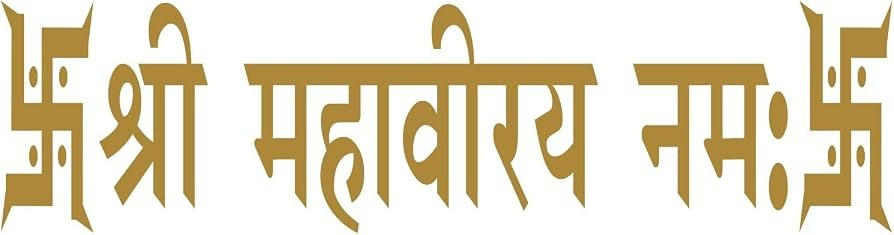
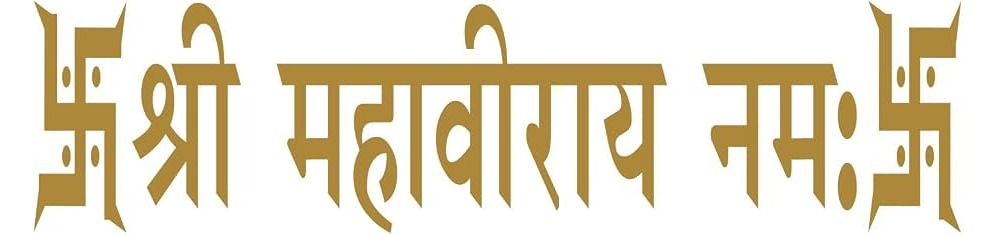
Update Lakshya & Archie name order, remove year tags, clean itinerary notes, update Varmala time, add 4th photo, and update header invocation image

diff --git a/src/config/invitation.ts b/src/config/invitation.ts
@@ -1,5 +1,5 @@
 /**
- * Single source of truth for Archie Jain & Lakshya Jain's wedding invitation.
+ * Single source of truth for Lakshya Jain & Archie Jain's wedding invitation.
  */
 
 export interface EventItem {
@@ -19,17 +19,18 @@ export interface DaySchedule {
 
 export const invitation = {
   couple: {
-    bride: "Archie Jain",
-    brideShort: "Archie",
-    brideParents: "D/o Smt. Sunita Jain & Shri Umesh Jain",
     groom: "Lakshya Jain",
     groomShort: "Lakshya",
     groomParents: "S/o Smt. Reena Jain & Shri Sandeep Jain",
-    hashtag: "#ArchieWedsLakshya",
+    bride: "Archie Jain",
+    brideShort: "Archie",
+    brideParents: "D/o Smt. Sunita Jain & Shri Umesh Jain",
+    hashtag: "#LakshyaWedsArchie",
   },
   familyElders: {
     title: "Invited With Love By",
     names: "Shri Ramesh Chandra Jain & Shreemati Saroj Jain",
+    parents: "Shri Sandeep Jain & Smt. Reena Jain",
   },
   invite: {
     headerInvocation: "॥ श्री महावीराय नमः ॥",
@@ -37,13 +38,13 @@ export const invitation = {
     line: "cordially invite you to celebrate the joyous wedding of their children",
   },
   event: {
-    title: "The Wedding Celebrations of Archie & Lakshya",
+    title: "The Wedding Celebrations of Lakshya & Archie",
     /** ISO with timezone offset — India Standard Time */
     startsAt: "2026-11-14T08:00:00+05:30",
     endsAt: "2026-11-15T22:00:00+05:30",
     dateLabel: "14 . 11 . 2026 — 15 . 11 . 2026",
-    dayLabel: "Saturday & Sunday",
-    timeLabel: "Celebrations begin 8:00 AM",
+    dayLabel: "",
+    timeLabel: "",
     dressCode: "Festive Indian Attire",
     note: "Join us in showering blessings upon the couple",
   },
@@ -61,19 +62,16 @@ export const invitation = {
         {
           time: "10:00 AM",
           title: "Myra",
-          note: "Followed with Breakfast",
         },
         {
           time: "12:00 PM",
           title: "Haldi",
           dressCode: "Yellow Attire",
-          note: "Followed with Dinner",
         },
         {
           time: "05:00 PM",
           title: "Mahila Sangeet",
           entryTime: "Bride & Groom Grand Entry at 7:00 PM",
-          note: "Followed with Dinner",
         },
       ],
     },
@@ -85,23 +83,19 @@ export const invitation = {
         {
           time: "10:00 AM",
           title: "Baarat",
-          note: "Breakfast served before Baarat arrival",
         },
         {
-          time: "12:00 PM",
+          time: "11:30 AM",
           title: "Varmala",
-          note: "Followed with Lunch",
         },
         {
           time: "01:30 PM",
           title: "Phere",
-          note: "Followed with High Tea",
         },
         {
           time: "05:00 PM",
           title: "Reception",
           entryTime: "Bride & Groom Grand Entry at 6:30 PM",
-          note: "Followed with Dinner",
         },
       ],
     },
@@ -109,26 +103,26 @@ export const invitation = {
   venue: {
     name: "Wedding Celebrations Venue",
     address: "Tap below to view full venue directions on Google Maps",
-    mapsQuery: "Archie and Lakshya Wedding Venue",
+    mapsQuery: "Lakshya and Archie Wedding Venue",
     url: "https://share.google/r5kyQlp0lJqvumKx6",
     lat: 26.9124,
     lng: 75.7873,
   },
   story: [
     {
-      year: "2024",
+      year: "",
       title: "Two Souls Meet",
       text: "A beautiful beginning filled with laughter, shared values, and mutual respect.",
       image: "couple-1",
     },
     {
-      year: "2025",
+      year: "",
       title: "Bound by Love",
       text: "Growing closer with every shared moment and creating memories to cherish forever.",
       image: "couple-2",
     },
     {
-      year: "2026",
+      year: "",
       title: "Together Forever",
       text: "Stepping into a lifetime of happiness, togetherness, and sacred union.",
       image: "couple-3",
@@ -141,16 +135,16 @@ export const invitation = {
     source: "With the divine blessings of Lord Mahavira & Elders",
   },
   footer: {
-    families: "With love & warm wishes from Jain & Extended Families",
+    families: "With love & warm wishes from Jain Family",
     contacts: [],
   },
   meta: {
-    title: "Archie & Lakshya — Wedding Celebrations",
+    title: "Lakshya & Archie — Wedding Celebrations",
     description:
-      "Archie Jain & Lakshya Jain cordially invite you to celebrate their wedding on 14–15 November 2026.",
+      "Lakshya Jain & Archie Jain cordially invite you to celebrate their wedding on 14–15 November 2026.",
     url: "https://archie-weds-lakshya.invitingyou.top/",
     image: "https://archie-weds-lakshya.invitingyou.top/og-image.jpg",
-    siteName: "Archie & Lakshya Wedding",
+    siteName: "Lakshya & Archie Wedding",
   },
 } as const;
 

diff --git a/src/components/wedding/SiteFooter.tsx b/src/components/wedding/SiteFooter.tsx
@@ -17,21 +17,25 @@ export function SiteFooter() {
         height={912}
         className="absolute inset-0 -z-10 h-full w-full object-cover object-bottom"
       />
-      <div aria-hidden className="absolute inset-0 -z-10 bg-parchment/55" />
+      <div aria-hidden className="absolute inset-0 -z-10 bg-parchment/70" />
       <div
         aria-hidden
         className="absolute inset-x-0 top-0 -z-10 h-40 bg-gradient-to-b from-parchment to-transparent"
       />
 
       <Reveal className="px-6">
-        <p className="font-display text-3xl tracking-[0.16em] text-pine uppercase">
-          {couple.brideShort} <span className="text-gold">&</span> {couple.groomShort}
+        <p className="font-display text-3xl tracking-[0.16em] text-pine uppercase font-light">
+          {couple.groomShort} <span className="text-gold font-normal">&amp;</span> {couple.brideShort}
         </p>
         <div className="mx-auto mt-5 w-24 gold-rule" />
 
-        <div className="mt-6 space-y-1 text-sm text-ink/80">
-          <p className="font-medium">{footer.families}</p>
-          <p className="text-xs text-pine font-semibold">{familyElders.title}: {familyElders.names}</p>
+        <div className="mt-6 space-y-2 text-sm text-ink">
+          <p className="font-semibold text-pine text-base">{footer.families}</p>
+          <div className="mt-3 rounded-xl border border-gold/40 bg-parchment/90 p-4 max-w-sm mx-auto shadow-sm">
+            <p className="text-[0.65rem] tracking-[0.25em] text-gold uppercase font-bold">{familyElders.title}</p>
+            <p className="text-xs font-semibold text-pine mt-1.5">{familyElders.names}</p>
+            <p className="text-xs font-semibold text-pine mt-1">{familyElders.parents}</p>
+          </div>
         </div>
 
         {footer.contacts.length > 0 && (
@@ -40,7 +44,7 @@ export function SiteFooter() {
               <a
                 key={c.phone}
                 href={`tel:${c.phone}`}
-                className="inline-flex items-center gap-2 rounded-full border border-gold/60 bg-parchment/70 px-5 py-2.5 text-[0.65rem] tracking-[0.2em] text-ink/80 uppercase transition-colors hover:bg-gold/15 active:scale-95"
+                className="inline-flex items-center gap-2 rounded-full border border-gold/60 bg-parchment/80 px-5 py-2.5 text-[0.65rem] tracking-[0.2em] text-ink/80 uppercase transition-colors hover:bg-gold/15 active:scale-95"
               >
                 <Phone className="size-3.5 text-gold" aria-hidden />
                 {c.name}
@@ -49,15 +53,19 @@ export function SiteFooter() {
           </div>
         )}
 
-        <p className="mt-10 text-[0.65rem] tracking-[0.32em] text-gold uppercase font-bold">
-          {couple.hashtag}
-        </p>
+        {/* High visibility Hashtag Badge */}
+        <div className="mt-8">
+          <span className="inline-block rounded-full border border-gold/60 bg-pine px-6 py-2.5 text-xs font-bold tracking-[0.3em] text-parchment uppercase shadow-md">
+            {couple.hashtag}
+          </span>
+        </div>
       </Reveal>
+
       <a
         href="https://www.instagram.com/invitestory.in/"
         target="_blank"
         rel="noreferrer"
-        className="mt-4 inline-block text-[10px] uppercase tracking-[0.35em] text-current opacity-70 transition-opacity hover:opacity-100"
+        className="mt-8 inline-block text-[10px] uppercase tracking-[0.35em] text-ink/70 font-semibold transition-opacity hover:opacity-100"
       >
         Crafted with ❤ by @invitestory.in
       </a>

diff --git a/src/components/wedding/Hero.tsx b/src/components/wedding/Hero.tsx
@@ -70,11 +70,11 @@ export function Hero() {
           transition={{ duration: 1.4, delay: 0.35, ease: [0.16, 1, 0.3, 1] }}
           className="mx-auto mt-4 max-w-md text-4xl leading-tight font-light text-pine uppercase sm:text-5xl"
         >
-          {couple.brideShort}
+          {couple.groomShort}
           <span className="mx-3 inline-block font-display text-2xl lowercase italic text-pine/70">
             weds
           </span>
-          {couple.groomShort}
+          {couple.brideShort}
         </motion.h1>
 
         <motion.div
@@ -91,8 +91,8 @@ export function Hero() {
           transition={{ duration: 1, delay: 0.9 }}
           className="mt-5 space-y-1.5 text-xs text-ink/80 font-sans"
         >
-          <p className="font-medium text-pine">{couple.bride} <span className="font-normal text-ink/70">({couple.brideParents})</span></p>
           <p className="font-medium text-pine">{couple.groom} <span className="font-normal text-ink/70">({couple.groomParents})</span></p>
+          <p className="font-medium text-pine">{couple.bride} <span className="font-normal text-ink/70">({couple.brideParents})</span></p>
         </motion.div>
 
         <motion.p
@@ -117,10 +117,11 @@ export function Hero() {
           initial={{ opacity: 0 }}
           animate={opened ? { opacity: 1 } : false}
           transition={{ duration: 1, delay: 1.25 }}
-          className="mt-4 rounded-xl border border-gold/30 bg-parchment-deep/40 px-4 py-2 text-center"
+          className="mt-4 rounded-xl border border-gold/30 bg-parchment-deep/40 px-4 py-2.5 text-center max-w-sm mx-auto shadow-xs"
         >
-          <p className="text-[0.62rem] tracking-[0.2em] text-gold uppercase">{familyElders.title}</p>
-          <p className="text-xs font-medium text-pine mt-0.5">{familyElders.names}</p>
+          <p className="text-[0.62rem] tracking-[0.2em] text-gold uppercase font-semibold">{familyElders.title}</p>
+          <p className="text-xs font-semibold text-pine mt-1">{familyElders.names}</p>
+          <p className="text-xs font-semibold text-pine mt-0.5">{familyElders.parents}</p>
         </motion.div>
       </motion.div>
 

diff --git a/src/components/wedding/Story.tsx b/src/components/wedding/Story.tsx
@@ -23,7 +23,7 @@ export function Story() {
 
         <div className="space-y-14">
           {invitation.story.map((item, i) => (
-            <Reveal key={item.year} delay={i * 0.08}>
+            <Reveal key={item.title} delay={i * 0.08}>
               <article className="relative pl-16 sm:pl-0">
                 <span className="absolute top-6 left-6 z-10 block size-2 -translate-x-1/2 rotate-45 bg-gold sm:left-1/2" />
                 <div
@@ -50,10 +50,7 @@ export function Story() {
                     </div>
                   </div>
                   <div className={`mt-4 sm:mt-0 sm:w-1/2 ${i % 2 ? "sm:text-right" : ""}`}>
-                    <p className="text-[0.6rem] tracking-[0.35em] text-gold uppercase">
-                      {item.year}
-                    </p>
-                    <h3 className="mt-2 font-display text-2xl text-pine">{item.title}</h3>
+                    <h3 className="font-display text-2xl text-pine">{item.title}</h3>
                     <p className="mt-2 text-sm leading-relaxed text-ink/75">{item.text}</p>
                   </div>
                 </div>

diff --git a/src/components/wedding/Gallery.tsx b/src/components/wedding/Gallery.tsx
@@ -4,12 +4,14 @@ import { X } from "lucide-react";
 import couple1 from "@/assets/couple-1.jpg";
 import couple2 from "@/assets/couple-2.jpg";
 import couple3 from "@/assets/couple-3.jpg";
+import couple4 from "@/assets/couple-4.jpg";
 import { Reveal } from "./Reveal";
 
 const PHOTOS = [
-  { src: couple1, alt: "Archie & Lakshya by the stepwell", position: "object-[center_60%]" },
-  { src: couple2, alt: "Archie & Lakshya holding hands under the tree", position: "object-[center_65%]" },
-  { src: couple3, alt: "Archie & Lakshya on the ancient stone stairs", position: "object-[center_55%]" },
+  { src: couple1, alt: "Lakshya & Archie by the stepwell", position: "object-[center_60%]" },
+  { src: couple2, alt: "Lakshya & Archie holding hands under the tree", position: "object-[center_65%]" },
+  { src: couple3, alt: "Lakshya & Archie on the ancient stone stairs", position: "object-[center_55%]" },
+  { src: couple4, alt: "Lakshya & Archie stylish close-up portrait", position: "object-[center_40%]" },
 ];
 
 export function Gallery() {

diff --git a/src/components/wedding/OpenGate.tsx b/src/components/wedding/OpenGate.tsx
@@ -123,7 +123,7 @@ function Opener({ opened, onOpen }: { opened: boolean; onOpen: () => void }) {
             transition={{ duration: 1.4, delay: 0.5 }}
             className="relative font-display text-3xl tracking-[0.08em] text-parchment"
           >
-            A <span className="mx-1 text-gold">&amp;</span> L
+            L <span className="mx-1 text-gold">&amp;</span> A
           </motion.span>
         </div>
 
@@ -133,7 +133,7 @@ function Opener({ opened, onOpen }: { opened: boolean; onOpen: () => void }) {
           transition={{ duration: 1.5, delay: 0.6, ease: EASE }}
           className="mt-9 text-lg font-light text-parchment uppercase sm:text-xl"
         >
-          {couple.brideShort} &amp; {couple.groomShort}
+          {couple.groomShort} &amp; {couple.brideShort}
         </motion.h2>
 
         <motion.div

diff --git a/src/components/wedding/Countdown.tsx b/src/components/wedding/Countdown.tsx
@@ -54,9 +54,7 @@ export function Countdown() {
           ))}
         </div>
 
-        <p className="mt-6 font-display text-lg italic text-ink/70">
-          {invitation.event.dayLabel}, {invitation.event.timeLabel}
-        </p>
+
       </Reveal>
     </section>
   );
